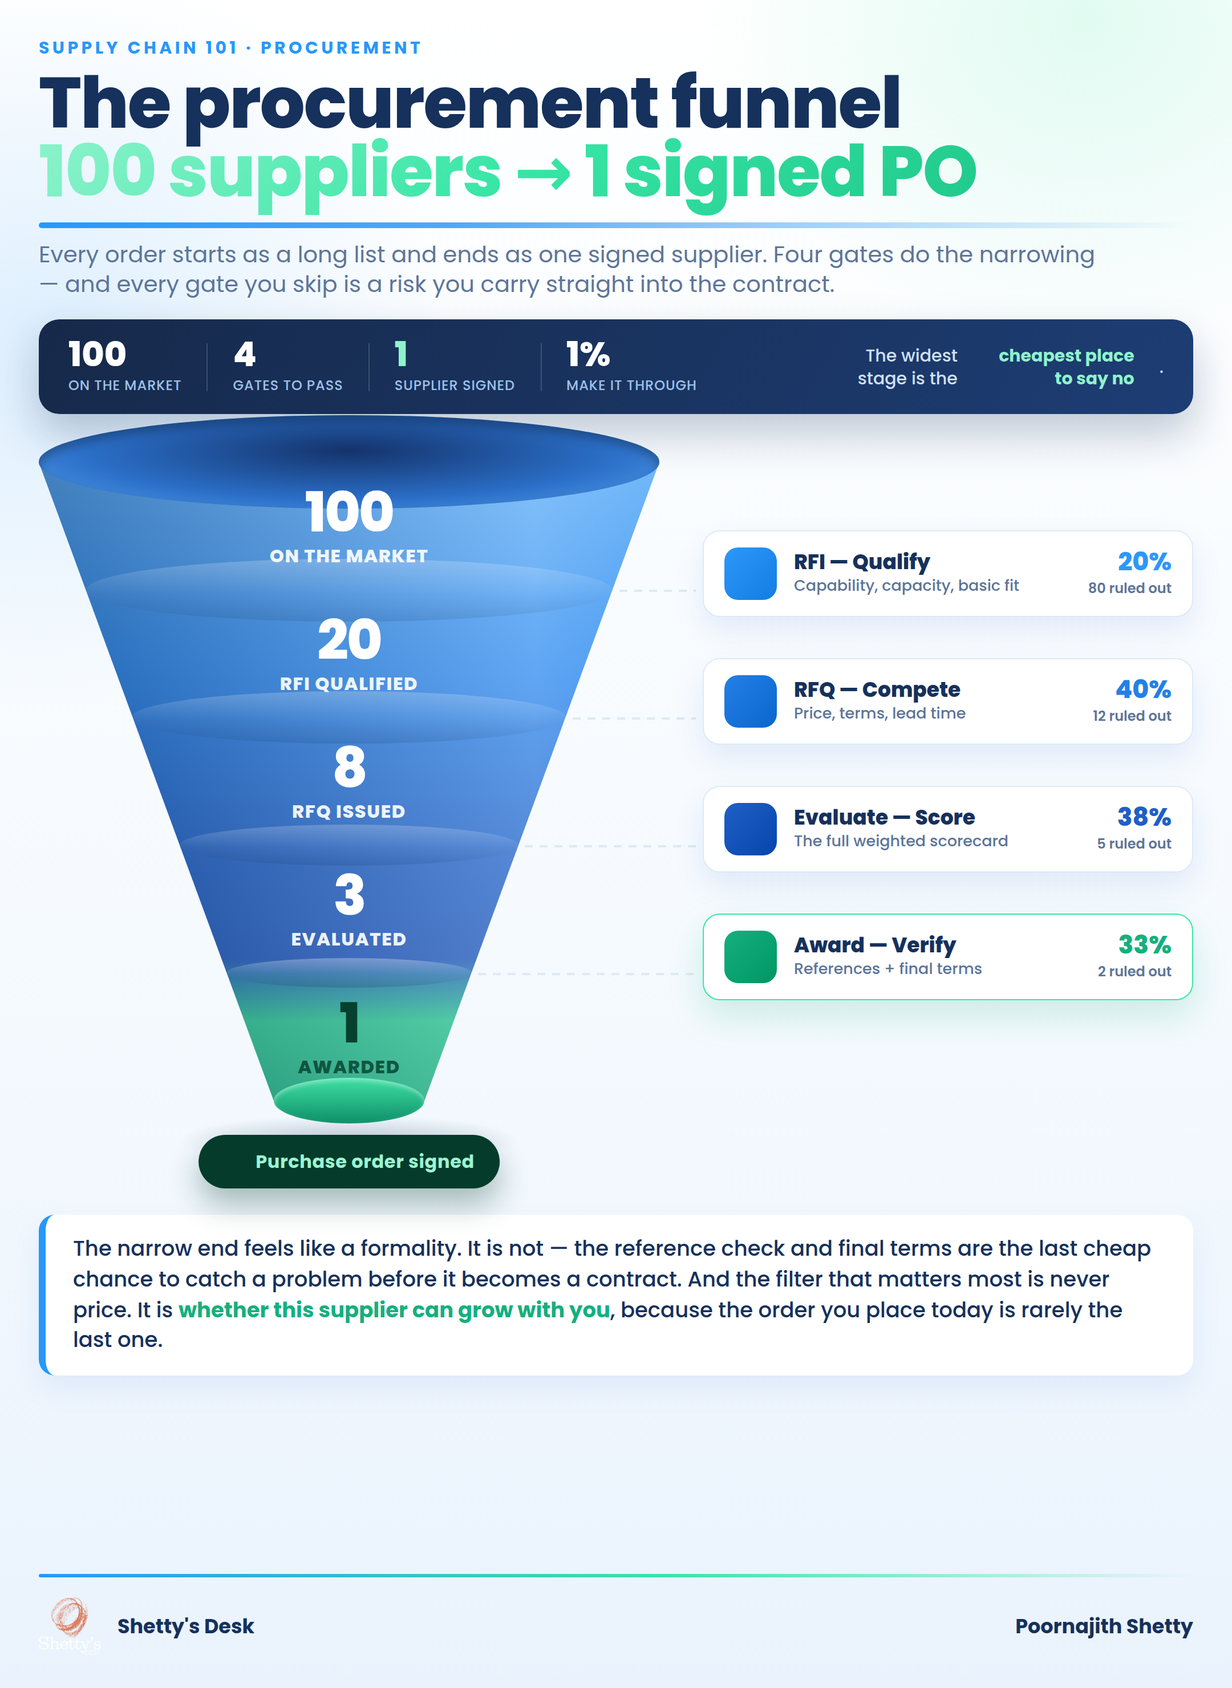
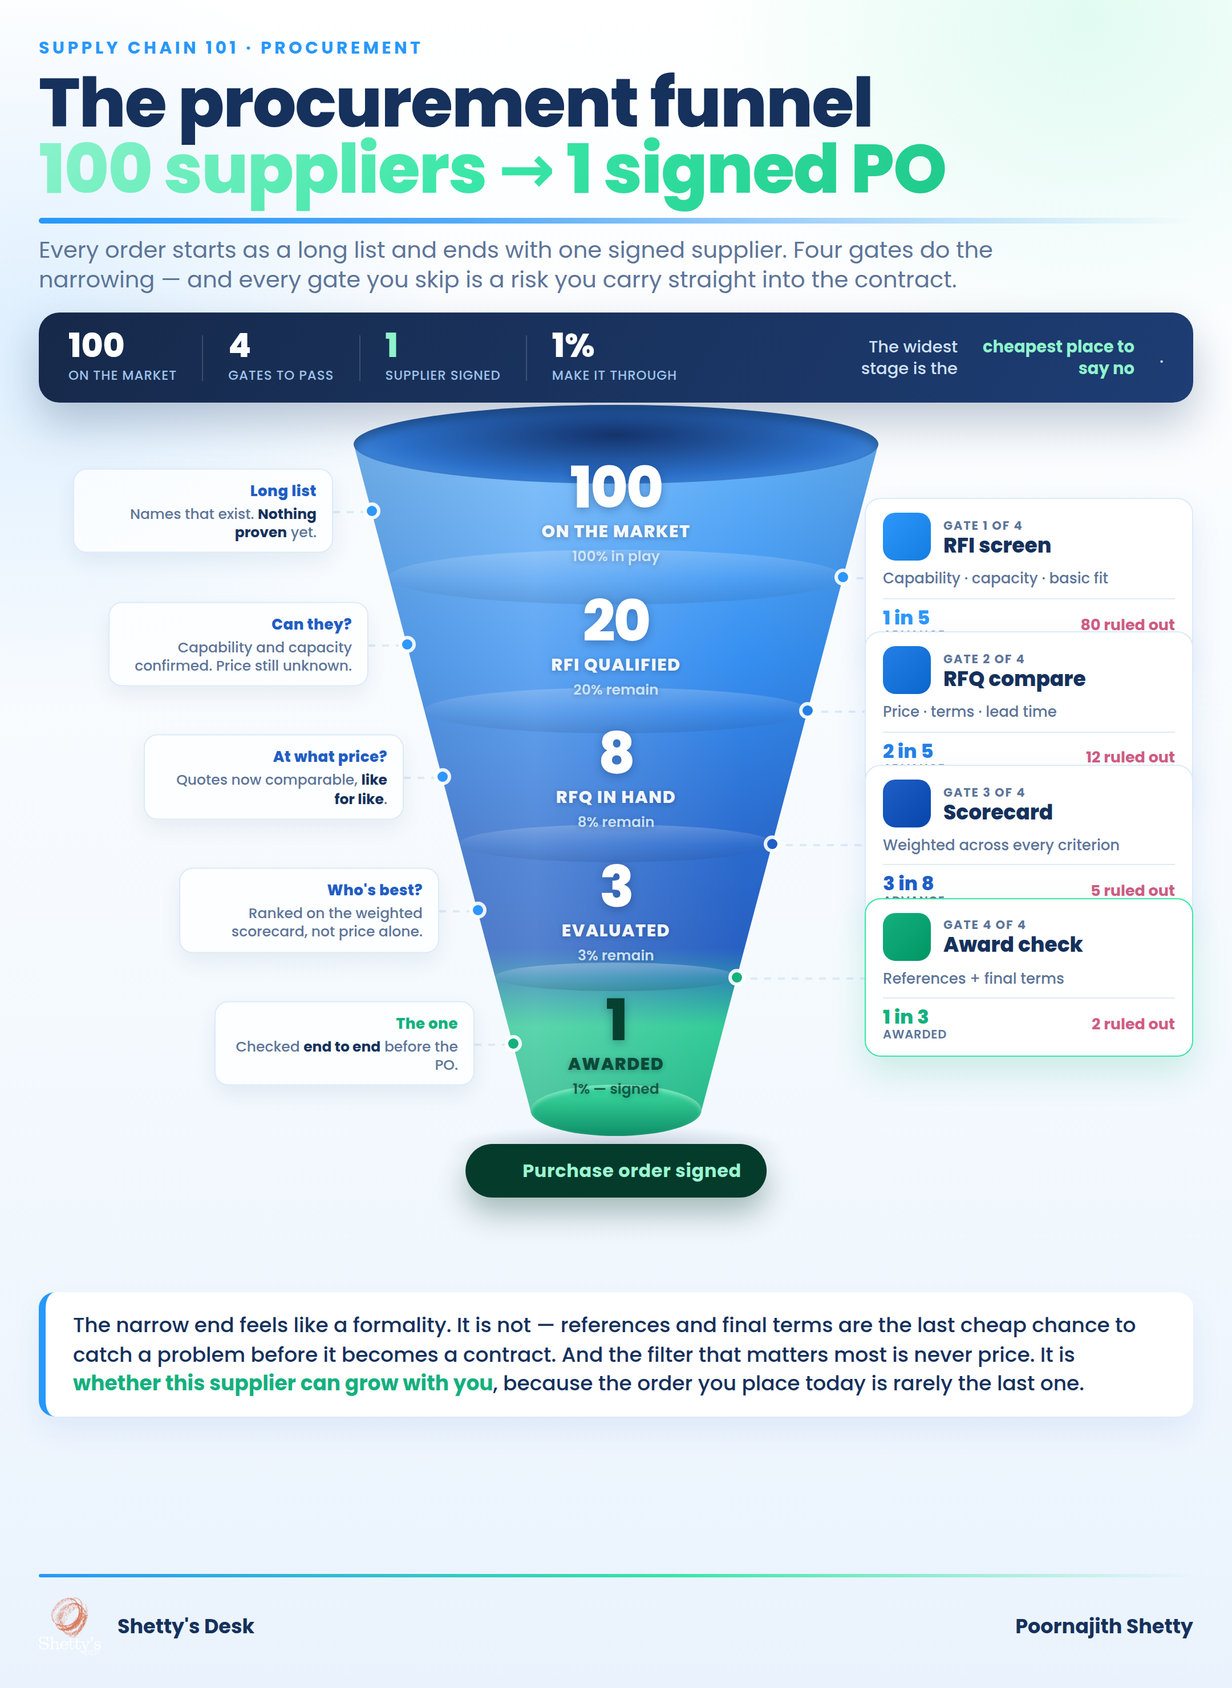
Rebuild 101 funnel to Mode A: both-sided in-place annotation + per-stratum data
Single-hero composition (Composition Mode A): keep the cohesive 3D funnel
as the dominant hero, but fill the previously-empty wedges with information
instead of air.

- Left wedge: per-stage cohort notes (what the surviving set actually means
  at each level), leader-lined into the funnel's left edge.
- Right wedge: 4 gate cards (the filter that produced the next cohort) with
  pass-rate + ruled-out count, leader-lined into the funnel's right edge.
- On the funnel: each stratum now carries count + stage name + cumulative
  %-remain (100 -> 20 -> 8 -> 3 -> 1).
- Funnel re-centred (cx 506, Wtop 460) so both annotation wedges have room;
  notes and gates interleave vertically for a woven reading rhythm.

Claude-Session: https://claude.ai/code/session_01QHwTCVSbkRhv54hCup5HwM

Changed region(s): [[0.031, 0.0311, 0.9616, 0.8392]]

diff --git a/infographic-setup/renderer/templates/sc101-procurement-funnel-3d.html b/infographic-setup/renderer/templates/sc101-procurement-funnel-3d.html
@@ -22,53 +22,74 @@
     padding:30px 34px 26px;display:flex;flex-direction:column;
   }
   .kicker{font-size:15px;font-weight:700;letter-spacing:.18em;text-transform:uppercase;color:var(--azure)}
-  h1{font-size:62px;font-weight:800;line-height:.97;margin-top:8px;letter-spacing:-1px;color:var(--ink)}
+  h1{font-size:60px;font-weight:800;line-height:.97;margin-top:8px;letter-spacing:-1px;color:var(--ink)}
   h1 .g{background:var(--eco-grad);-webkit-background-clip:text;background-clip:text;color:transparent}
   .rule{height:5px;width:100%;margin:14px 0 10px;border-radius:5px;
     background:linear-gradient(90deg,var(--azure) 0%,var(--sky) 36%,rgba(80,169,247,0) 100%)}
   .sub{font-size:20px;font-weight:400;color:var(--muted);max-width:940px;line-height:1.3}
 
   /* stat band */
-  .band{margin-top:18px;background:linear-gradient(120deg,#16294a,#1d3d74);border-radius:18px;
-    padding:16px 26px;display:flex;align-items:center;gap:22px;box-shadow:0 18px 38px rgba(21,49,92,.26)}
+  .band{margin-top:16px;background:linear-gradient(120deg,#16294a,#1d3d74);border-radius:18px;
+    padding:15px 26px;display:flex;align-items:center;gap:22px;box-shadow:0 18px 38px rgba(21,49,92,.26)}
   .kpi{display:flex;flex-direction:column}
-  .kpi .n{font-size:30px;font-weight:800;color:#fff;line-height:1}
+  .kpi .n{font-size:29px;font-weight:800;color:#fff;line-height:1}
   .kpi .n.e{color:var(--mint)}
-  .kpi .l{font-size:12px;font-weight:500;letter-spacing:.04em;color:#9FC2EA;margin-top:3px;text-transform:uppercase}
-  .band .sep{width:1px;height:42px;background:rgba(255,255,255,.16)}
-  .band .tagline{margin-left:auto;font-size:15px;font-weight:500;color:#CFE0F4;max-width:300px;line-height:1.32;text-align:right}
+  .kpi .l{font-size:11.5px;font-weight:500;letter-spacing:.04em;color:#9FC2EA;margin-top:3px;text-transform:uppercase}
+  .band .sep{width:1px;height:40px;background:rgba(255,255,255,.16)}
+  .band .tagline{margin-left:auto;font-size:14.5px;font-weight:500;color:#CFE0F4;max-width:300px;line-height:1.32;text-align:right}
   .band .tagline b{color:var(--mint);font-weight:700}
 
-  /* scene: funnel (left) + gate cards (right) */
-  .scene{position:relative;width:1012px;height:660px;margin-top:22px}
+  /* scene: funnel hero, annotated both sides */
+  .scene{position:relative;width:1012px;height:744px;margin-top:18px}
   .shape{position:absolute;pointer-events:none}
+
+  /* stage labels ON the funnel */
   .lab{position:absolute;pointer-events:none;text-align:center;transform:translateX(-50%)}
-  .lab .n{font-size:48px;font-weight:800;line-height:.88;letter-spacing:-1.5px}
-  .lab .nm{font-size:16px;font-weight:800;letter-spacing:.05em;text-transform:uppercase;margin-top:4px}
+  .lab .n{font-size:50px;font-weight:800;line-height:.86;letter-spacing:-1.5px;text-shadow:0 2px 8px rgba(6,26,66,.30)}
+  .lab .nm{font-size:15px;font-weight:800;letter-spacing:.05em;text-transform:uppercase;margin-top:5px;text-shadow:0 1px 4px rgba(6,26,66,.30)}
+  .lab .pc{font-size:12.5px;font-weight:600;margin-top:2px;text-shadow:0 1px 4px rgba(6,26,66,.28)}
+
+  /* left stage notes — what the surviving cohort means */
+  .note{position:absolute;width:228px;background:rgba(255,255,255,.74);border:1px solid var(--line);
+    border-radius:12px;padding:9px 13px;box-shadow:0 8px 18px rgba(20,50,100,.07);text-align:right}
+  .note .nh{font-size:13px;font-weight:800;letter-spacing:.02em;color:var(--deep)}
+  .note.win .nh{color:var(--eco-text)}
+  .note .np{font-size:12.5px;font-weight:500;color:var(--muted);line-height:1.3;margin-top:2px}
+  .note .np b{color:var(--ink);font-weight:700}
+
+  /* right gate cards — the filter that produced the next cohort */
+  .gate{position:absolute;width:288px;background:#fff;border:1px solid var(--line);border-radius:14px;
+    box-shadow:0 12px 26px rgba(33,93,195,.10);padding:12px 15px;display:flex;flex-direction:column;gap:8px}
+  .gate.win{border:1.5px solid var(--eco);box-shadow:0 14px 30px rgba(20,176,126,.18)}
+  .gate .gh{display:flex;align-items:center;gap:11px}
+  .gate .gi{width:42px;height:42px;flex:none;border-radius:11px;display:flex;align-items:center;justify-content:center}
+  .gate .gi i{width:23px;height:23px;background:#fff;-webkit-mask-size:contain;mask-size:contain;
+    -webkit-mask-repeat:no-repeat;mask-repeat:no-repeat;-webkit-mask-position:center;mask-position:center}
+  .gate .gtag{font-size:10.5px;font-weight:700;letter-spacing:.09em;text-transform:uppercase;color:var(--muted)}
+  .gate .gt{font-size:18px;font-weight:800;color:var(--ink);line-height:1.02}
+  .gate .gf{font-size:13px;font-weight:500;color:var(--muted);line-height:1.28}
+  .gate .grow{display:flex;align-items:center;justify-content:space-between;border-top:1px solid var(--line);padding-top:8px}
+  .gate .pass{font-size:17px;font-weight:800;line-height:1}
+  .gate .pass small{display:block;font-size:10.5px;font-weight:600;color:var(--muted);letter-spacing:.04em;text-transform:uppercase;margin-top:2px}
+  .gate .drop{display:flex;align-items:center;gap:6px;font-size:13.5px;font-weight:700;color:var(--coral-deep)}
+  .gate .drop .dn{width:15px;height:15px;background:var(--coral-deep);
+    -webkit-mask:url(../assets/icons/triangle-alert.svg) center/contain no-repeat;mask:url(../assets/icons/triangle-alert.svg) center/contain no-repeat}
+
+  /* leader lines + anchors */
+  .conn{position:absolute;height:2px;pointer-events:none;
+    background:repeating-linear-gradient(90deg,var(--line) 0 6px,transparent 6px 12px)}
+  .anchor{position:absolute;width:9px;height:9px;border-radius:50%;transform:translate(-50%,-50%);
+    box-shadow:0 0 0 3px rgba(255,255,255,.9)}
+
+  /* PO seal */
   .seal{position:absolute;transform:translate(-50%,0);display:inline-flex;align-items:center;gap:9px;
     background:#053b2b;color:#9af5d1;font-size:16px;font-weight:700;letter-spacing:.02em;padding:11px 22px;border-radius:999px;
     box-shadow:0 14px 26px rgba(5,59,43,.32)}
   .seal .ck{width:19px;height:19px;background:#38E6A6;-webkit-mask:url(../assets/icons/circle-check.svg) center/contain no-repeat;mask:url(../assets/icons/circle-check.svg) center/contain no-repeat}
 
-  /* gate cards */
-  .gate{position:absolute;right:0;width:430px;background:#fff;border:1px solid var(--line);border-radius:15px;
-    box-shadow:0 12px 26px rgba(33,93,195,.10);padding:14px 18px;display:flex;align-items:center;gap:15px}
-  .gate .gi{width:46px;height:46px;flex:none;border-radius:12px;display:flex;align-items:center;justify-content:center}
-  .gate .gi i{width:25px;height:25px;background:#fff;-webkit-mask-size:contain;mask-size:contain;
-    -webkit-mask-repeat:no-repeat;mask-repeat:no-repeat;-webkit-mask-position:center;mask-position:center}
-  .gate .body{flex:1}
-  .gate .gt{font-size:18px;font-weight:800;color:var(--ink);line-height:1.05}
-  .gate .gf{font-size:13.5px;font-weight:500;color:var(--muted);line-height:1.28;margin-top:2px}
-  .gate .cut{flex:none;text-align:right;min-width:86px}
-  .gate .cut .pass{font-size:22px;font-weight:800;line-height:1}
-  .gate .cut .out{font-size:12px;font-weight:600;color:var(--muted);margin-top:3px}
-  .gate.win{border:1.5px solid var(--eco);box-shadow:0 14px 30px rgba(20,176,126,.18)}
-  /* connector dot on the funnel→gate line */
-  .conn{position:absolute;height:2px;background:repeating-linear-gradient(90deg,var(--line) 0 7px,transparent 7px 13px);pointer-events:none}
-
   /* insight */
-  .insight{margin-top:20px;background:#fff;border-left:6px solid var(--azure);border-radius:14px;
-    box-shadow:0 12px 26px rgba(33,93,195,.08);padding:17px 24px;font-size:18.5px;font-weight:500;color:var(--ink);line-height:1.44}
+  .insight{margin-top:18px;background:#fff;border-left:6px solid var(--azure);border-radius:14px;
+    box-shadow:0 12px 26px rgba(33,93,195,.08);padding:16px 24px;font-size:18px;font-weight:500;color:var(--ink);line-height:1.42}
   .insight b{color:var(--eco-text);font-weight:700} .insight .px{color:var(--coral-deep);font-weight:700}
 
   /* footer */
@@ -86,7 +107,7 @@
   <div class="kicker">Supply Chain 101 · Procurement</div>
   <h1>The procurement funnel<br><span class="g">100 suppliers → 1 signed PO</span></h1>
   <div class="rule"></div>
-  <div class="sub">Every order starts as a long list and ends as one signed supplier. Four gates do the narrowing — and every gate you skip is a risk you carry straight into the contract.</div>
+  <div class="sub">Every order starts as a long list and ends with one signed supplier. Four gates do the narrowing — and every gate you skip is a risk you carry straight into the contract.</div>
 
   <div class="band">
     <div class="kpi"><span class="n">100</span><span class="l">on the market</span></div>
@@ -101,7 +122,7 @@
 
   <div class="scene" id="scene"></div>
 
-  <div class="insight">The narrow end feels like a formality. It is not — the reference check and final terms are the last cheap chance to catch a problem before it becomes a contract. And the filter that matters most is never price. It is <b>whether this supplier can grow with you</b>, because the order you place today is rarely the last one.</div>
+  <div class="insight">The narrow end feels like a formality. It is not — references and final terms are the last cheap chance to catch a problem before it becomes a contract. And the filter that matters most is never price. It is <b>whether this supplier can grow with you</b>, because the order you place today is rarely the last one.</div>
 
   <div class="footrule"></div>
   <div class="foot">
@@ -113,48 +134,52 @@
 <script>
 (function(){
   const scene=document.getElementById('scene');
-  const SW=scene.clientWidth, SH=scene.clientHeight;
-  const cx=272;                 // funnel centre x
-  const Wtop=544, Wtip=132;     // funnel mouth / tip widths
-  const top=20, H=560;          // funnel body top y + height
+  const SW=scene.clientWidth, SH=scene.clientHeight;        // 1012 x 744
+  const cx=506;                       // funnel centre x (scene centre → symmetric wedges)
+  const Wtop=460, Wtip=150;           // mouth / tip widths
+  const top=18, H=584;                // funnel body top y + height
   const bot=top+H;
   const wAt=y=>Wtop+(Wtip-Wtop)*((y-top)/H);
-
-  // stage zones (5) — count + name shown ON the funnel
-  const stages=[
-    {n:'100', nm:'On the market', dp:'the full long list', icon:'blocks'},
-    {n:'20',  nm:'RFI qualified', dp:'capability checked', icon:'circle-check'},
-    {n:'8',   nm:'RFQ issued',    dp:'quotes requested',   icon:'tag'},
-    {n:'3',   nm:'Evaluated',     dp:'scored on criteria', icon:'chart-line'},
-    {n:'1',   nm:'Awarded',       dp:'the one supplier',   icon:'trophy', eco:true},
-  ];
   const zoneH=H/5;
 
-  // gates (4) — the filter between each pair of stages
+  // five surviving cohorts — count + name + cumulative % shown ON the funnel,
+  // plus a left-side note explaining what that cohort actually is
+  const stages=[
+    {n:'100', nm:'On the market', pc:'100% in play', nh:'Long list',     np:'Names that exist. <b>Nothing proven</b> yet.'},
+    {n:'20',  nm:'RFI qualified', pc:'20% remain',   nh:'Can they?',     np:'Capability and capacity confirmed. Price still unknown.'},
+    {n:'8',   nm:'RFQ in hand',   pc:'8% remain',    nh:'At what price?', np:'Quotes now comparable, <b>like for like</b>.'},
+    {n:'3',   nm:'Evaluated',     pc:'3% remain',    nh:"Who's best?",   np:'Ranked on the weighted scorecard, not price alone.'},
+    {n:'1',   nm:'Awarded',       pc:'1% — signed',  nh:'The one',       np:'Checked <b>end to end</b> before the PO.', eco:true},
+  ];
+
+  // four gates — the filter that produced the next cohort (sit at the boundaries)
   const gates=[
-    {t:'RFI — Qualify', f:'Capability, capacity, basic fit', pass:'20%', out:'80 ruled out', c:'#2E97FB', icon:'circle-check'},
-    {t:'RFQ — Compete', f:'Price, terms, lead time', pass:'40%', out:'12 ruled out', c:'#2480E6', icon:'tag'},
-    {t:'Evaluate — Score', f:'The full weighted scorecard', pass:'38%', out:'5 ruled out', c:'#1F5FC6', icon:'chart-line'},
-    {t:'Award — Verify', f:'References + final terms', pass:'33%', out:'2 ruled out', c:'#14B07E', icon:'shield-check', win:true},
+    {t:'RFI screen',  f:'Capability · capacity · basic fit', pass:'1 in 5', adv:'advance', drop:'80 ruled out', c:'#2E97FB', icon:'circle-check'},
+    {t:'RFQ compare', f:'Price · terms · lead time',         pass:'2 in 5', adv:'advance', drop:'12 ruled out', c:'#2480E6', icon:'tag'},
+    {t:'Scorecard',   f:'Weighted across every criterion',   pass:'3 in 8', adv:'advance', drop:'5 ruled out',  c:'#1F5FC6', icon:'chart-line'},
+    {t:'Award check', f:'References + final terms',          pass:'1 in 3', adv:'awarded', drop:'2 ruled out',  c:'#14B07E', icon:'shield-check', win:true},
   ];
 
   function add(cls){const d=document.createElement('div');d.className=cls;scene.appendChild(d);return d;}
+  function shade(hex,amt){const n=parseInt(hex.slice(1),16);let r=(n>>16)+amt,g=((n>>8)&255)+amt,b=(n&255)+amt;
+    r=Math.max(0,Math.min(255,r));g=Math.max(0,Math.min(255,g));b=Math.max(0,Math.min(255,b));
+    return '#'+((1<<24)+(r<<16)+(g<<8)+b).toString(16).slice(1);}
 
-  // cast shadow under the tip
+  /* ---- cast shadow under the tip ---- */
   const cast=add('shape');
-  cast.style.left=(cx-150)+'px'; cast.style.top=(bot+12)+'px'; cast.style.width='300px'; cast.style.height='46px';
+  cast.style.left=(cx-150)+'px'; cast.style.top=(bot+12)+'px'; cast.style.width='300px'; cast.style.height='44px';
   cast.style.borderRadius='50%'; cast.style.background='radial-gradient(ellipse at center, rgba(15,40,90,.20), rgba(15,40,90,0) 70%)';
 
-  // funnel body (single tapered solid)
+  /* ---- funnel body (single tapered 3D vessel) ---- */
   const body=add('shape');
   body.style.left='0'; body.style.top='0'; body.style.width=SW+'px'; body.style.height=(bot+20)+'px';
   body.style.clipPath='polygon('+(cx-Wtop/2)+'px '+top+'px, '+(cx+Wtop/2)+'px '+top+'px, '+(cx+Wtip/2)+'px '+bot+'px, '+(cx-Wtip/2)+'px '+bot+'px)';
   body.style.background=
     'linear-gradient(90deg, rgba(8,24,55,.30) 0%, rgba(255,255,255,.24) 43%, rgba(255,255,255,.04) 61%, rgba(8,24,55,.32) 100%),'+
-    'linear-gradient(180deg,#62B2F9 0%,#2E8BF0 34%,#2266CD 60%,#1E59C0 76%,#27C892 85%,#13AE7D 100%)';
+    'linear-gradient(180deg,#62B2F9 0%,#2E8BF0 33%,#2266CD 58%,#1E59C0 74%,#27C892 85%,#13AE7D 100%)';
   body.style.filter='drop-shadow(0 10px 16px rgba(15,45,100,.18))';
 
-  // top mouth ellipse (the opening — darker interior implies depth)
+  /* ---- top mouth ellipse (the opening — dark interior implies depth) ---- */
   const mouthH=Wtop*0.15;
   const mouth=add('shape');
   mouth.style.left=(cx-Wtop/2)+'px'; mouth.style.top=(top-mouthH/2)+'px'; mouth.style.width=Wtop+'px'; mouth.style.height=mouthH+'px';
@@ -162,57 +187,81 @@
   mouth.style.background='radial-gradient(ellipse at 50% 38%, #14336b 0%, #2b6fc8 60%, #5aa6f3 100%)';
   mouth.style.boxShadow='inset 0 5px 9px rgba(0,0,0,.30)';
 
-  // stage rim lines at each interior boundary (subtle steps)
+  /* ---- strata rims at each interior boundary (the fill levels) ---- */
   for(let i=1;i<5;i++){
     const y=top+i*zoneH, w=wAt(y), rh=w*0.12;
     const rim=add('shape');
     rim.style.left=(cx-w/2)+'px'; rim.style.top=(y-rh/2)+'px'; rim.style.width=w+'px'; rim.style.height=rh+'px';
     rim.style.borderRadius='50%';
     rim.style.background='linear-gradient(180deg, rgba(255,255,255,.34), rgba(255,255,255,.04) 55%, rgba(8,24,55,.18))';
-    rim.style.opacity=i===4?'.9':'.65';
+    rim.style.opacity=i===4?'.9':'.6';
   }
 
-  // eco tip cap
+  /* ---- eco tip cap ---- */
   const tipW=Wtip, tipH=tipW*0.30;
   const tip=add('shape');
   tip.style.left=(cx-tipW/2)+'px'; tip.style.top=(bot-tipH/2)+'px'; tip.style.width=tipW+'px'; tip.style.height=tipH+'px';
   tip.style.borderRadius='50%'; tip.style.background='linear-gradient(180deg,#3FE0A4,#0E8F68)';
   tip.style.boxShadow='inset 0 2px 4px rgba(255,255,255,.4)';
 
-  // stage labels on the funnel — centered number + name spine
+  /* ---- leaders first (paint under cards) ---- */
+  function leader(x,y,w,color){
+    const c=add('conn'); c.style.left=x+'px'; c.style.top=y+'px'; c.style.width=w+'px';
+    const a=add('anchor'); a.style.left=x+'px'; a.style.top=y+'px'; a.style.background=color;
+  }
+
+  const cardLeft=724, noteGap=34, noteW=228;
+  // right leaders (funnel right edge → gate card) at each boundary
+  gates.forEach((g,i)=>{
+    const y=top+(i+1)*zoneH, redge=cx+wAt(y)/2;
+    leader(redge, y, cardLeft-redge, g.c);
+  });
+  // left leaders (note → funnel left edge) at each stage centre
+  stages.forEach((s,i)=>{
+    const yc=top+i*zoneH+zoneH/2, ledge=cx-wAt(yc)/2;
+    const c=add('conn'); c.style.left=(ledge-noteGap)+'px'; c.style.top=yc+'px'; c.style.width=noteGap+'px';
+    const a=add('anchor'); a.style.left=ledge+'px'; a.style.top=yc+'px'; a.style.background=s.eco?'#14B07E':'#2E97FB';
+  });
+
+  /* ---- stage labels ON the funnel ---- */
   stages.forEach((s,i)=>{
     const yc=top+i*zoneH+zoneH/2;
-    const lab=add('lab');
-    lab.style.left=cx+'px'; lab.style.top=(yc-32)+'px';
-    const nc = s.eco ? '#06402E' : '#fff';
-    const dc = s.eco ? 'rgba(6,64,46,.82)' : 'rgba(255,255,255,.92)';
-    lab.innerHTML='<div class="n" style="color:'+nc+'">'+s.n+'</div><div class="nm" style="color:'+dc+'">'+s.nm+'</div>';
+    const lab=add('lab'); lab.style.left=cx+'px'; lab.style.top=(yc-42)+'px';
+    const nc=s.eco?'#06402E':'#fff';
+    const sc=s.eco?'rgba(6,64,46,.92)':'rgba(255,255,255,.94)';
+    const pc=s.eco?'rgba(6,64,46,.78)':'rgba(214,235,255,.92)';
+    lab.innerHTML='<div class="n" style="color:'+nc+'">'+s.n+'</div>'+
+                  '<div class="nm" style="color:'+sc+'">'+s.nm+'</div>'+
+                  '<div class="pc" style="color:'+pc+'">'+s.pc+'</div>';
   });
 
-  // PO seal under the tip
+  /* ---- left stage notes ---- */
+  stages.forEach((s,i)=>{
+    const yc=top+i*zoneH+zoneH/2, ledge=cx-wAt(yc)/2;
+    const note=add('note'+(s.eco?' win':'')); note.style.width=noteW+'px';
+    note.style.left=(ledge-noteGap-noteW)+'px'; note.style.top=yc+'px'; note.style.transform='translateY(-50%)';
+    note.innerHTML='<div class="nh">'+s.nh+'</div><div class="np">'+s.np+'</div>';
+  });
+
+  /* ---- right gate cards ---- */
+  gates.forEach((g,i)=>{
+    const y=top+(i+1)*zoneH;
+    const card=add('gate'+(g.win?' win':'')); card.style.left=cardLeft+'px'; card.style.top=y+'px'; card.style.transform='translateY(-50%)';
+    card.innerHTML=
+      '<div class="gh">'+
+        '<span class="gi" style="background:linear-gradient(135deg,'+g.c+','+shade(g.c,-26)+')"><i style="-webkit-mask:url(../assets/icons/'+g.icon+'.svg) center/contain no-repeat;mask:url(../assets/icons/'+g.icon+'.svg) center/contain no-repeat"></i></span>'+
+        '<div><div class="gtag">Gate '+(i+1)+' of 4</div><div class="gt">'+g.t+'</div></div>'+
+      '</div>'+
+      '<div class="gf">'+g.f+'</div>'+
+      '<div class="grow">'+
+        '<div class="pass" style="color:'+(g.win?'var(--eco-text)':g.c)+'">'+g.pass+'<small>'+g.adv+'</small></div>'+
+        '<div class="drop"><span class="dn"></span>'+g.drop+'</div>'+
+      '</div>';
+  });
+
+  /* ---- PO seal under the tip ---- */
   const seal=add('seal'); seal.style.left=cx+'px'; seal.style.top=(bot+30)+'px';
   seal.innerHTML='<span class="ck"></span>Purchase order signed';
-
-  // gate cards on the right, positioned at each stage boundary
-  const cardH=104;
-  gates.forEach((g,i)=>{
-    const y=top+(i+1)*zoneH;            // boundary between stage i and i+1
-    const cardTop=Math.round(y-cardH/2);
-    // connector from funnel edge to the card
-    const edge=cx+wAt(y)/2;
-    const conn=add('conn');
-    conn.style.left=(edge+6)+'px'; conn.style.top=(y)+'px'; conn.style.width=(SW-430-edge-12)+'px';
-    const card=add('gate'+(g.win?' win':''));
-    card.style.top=cardTop+'px';
-    card.innerHTML=
-      '<span class="gi" style="background:linear-gradient(135deg,'+g.c+','+shade(g.c,-26)+')"><i style="-webkit-mask:url(../assets/icons/'+g.icon+'.svg) center/contain no-repeat;mask:url(../assets/icons/'+g.icon+'.svg) center/contain no-repeat"></i></span>'+
-      '<div class="body"><div class="gt">'+g.t+'</div><div class="gf">'+g.f+'</div></div>'+
-      '<div class="cut"><div class="pass" style="color:'+(g.win?'var(--eco-text)':g.c)+'">'+g.pass+'</div><div class="out">'+g.out+'</div></div>';
-  });
-
-  function shade(hex,amt){const n=parseInt(hex.slice(1),16);let r=(n>>16)+amt,g=((n>>8)&255)+amt,b=(n&255)+amt;
-    r=Math.max(0,Math.min(255,r));g=Math.max(0,Math.min(255,g));b=Math.max(0,Math.min(255,b));
-    return '#'+((1<<24)+(r<<16)+(g<<8)+b).toString(16).slice(1);}
 })();
 </script>
 </body>
